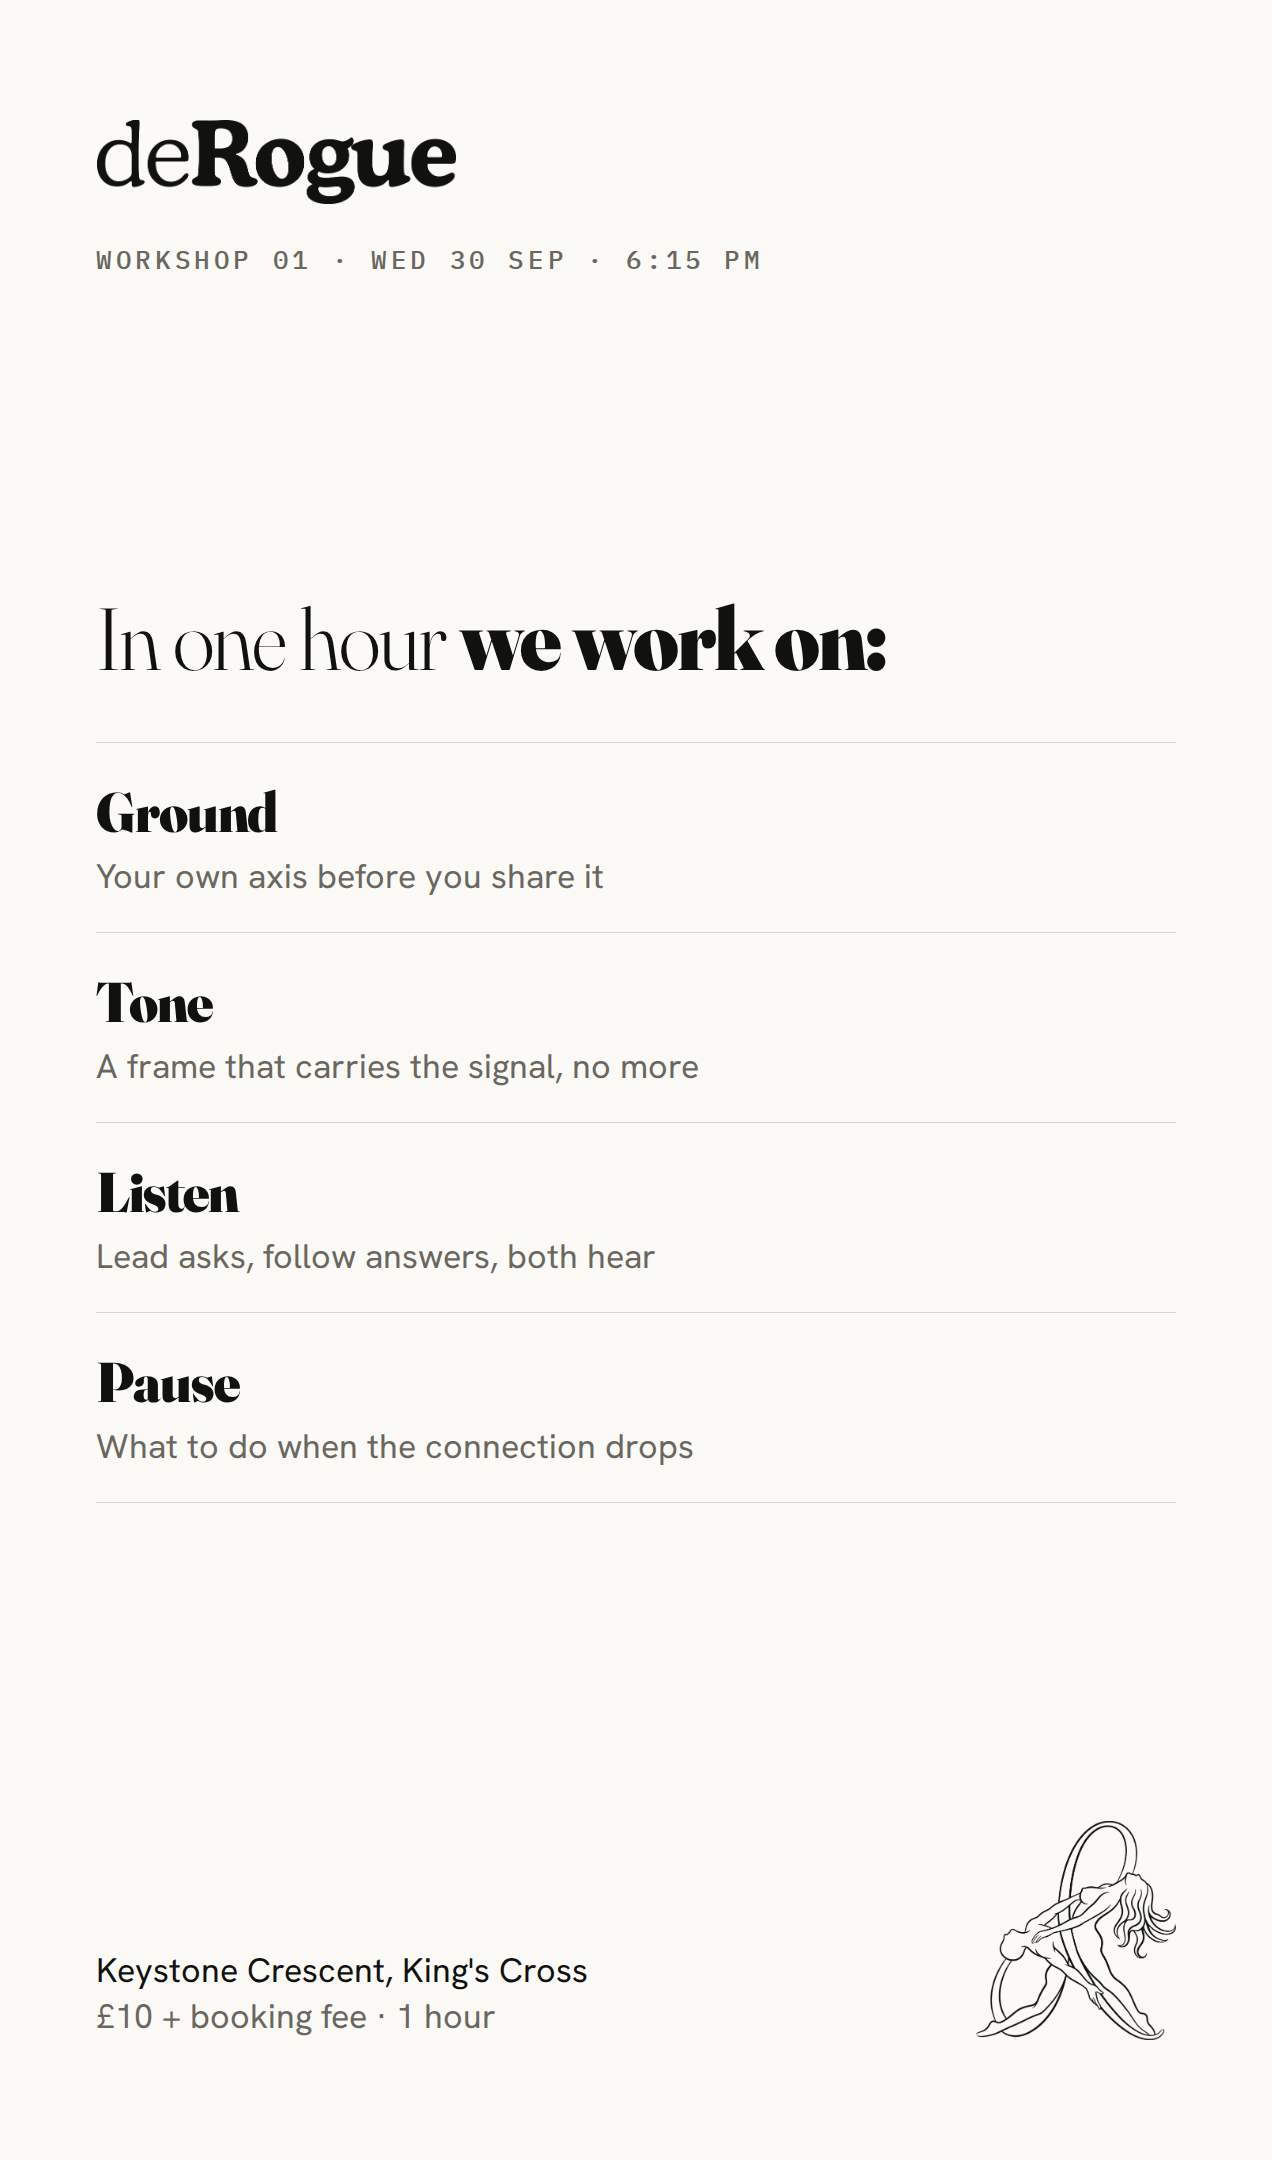
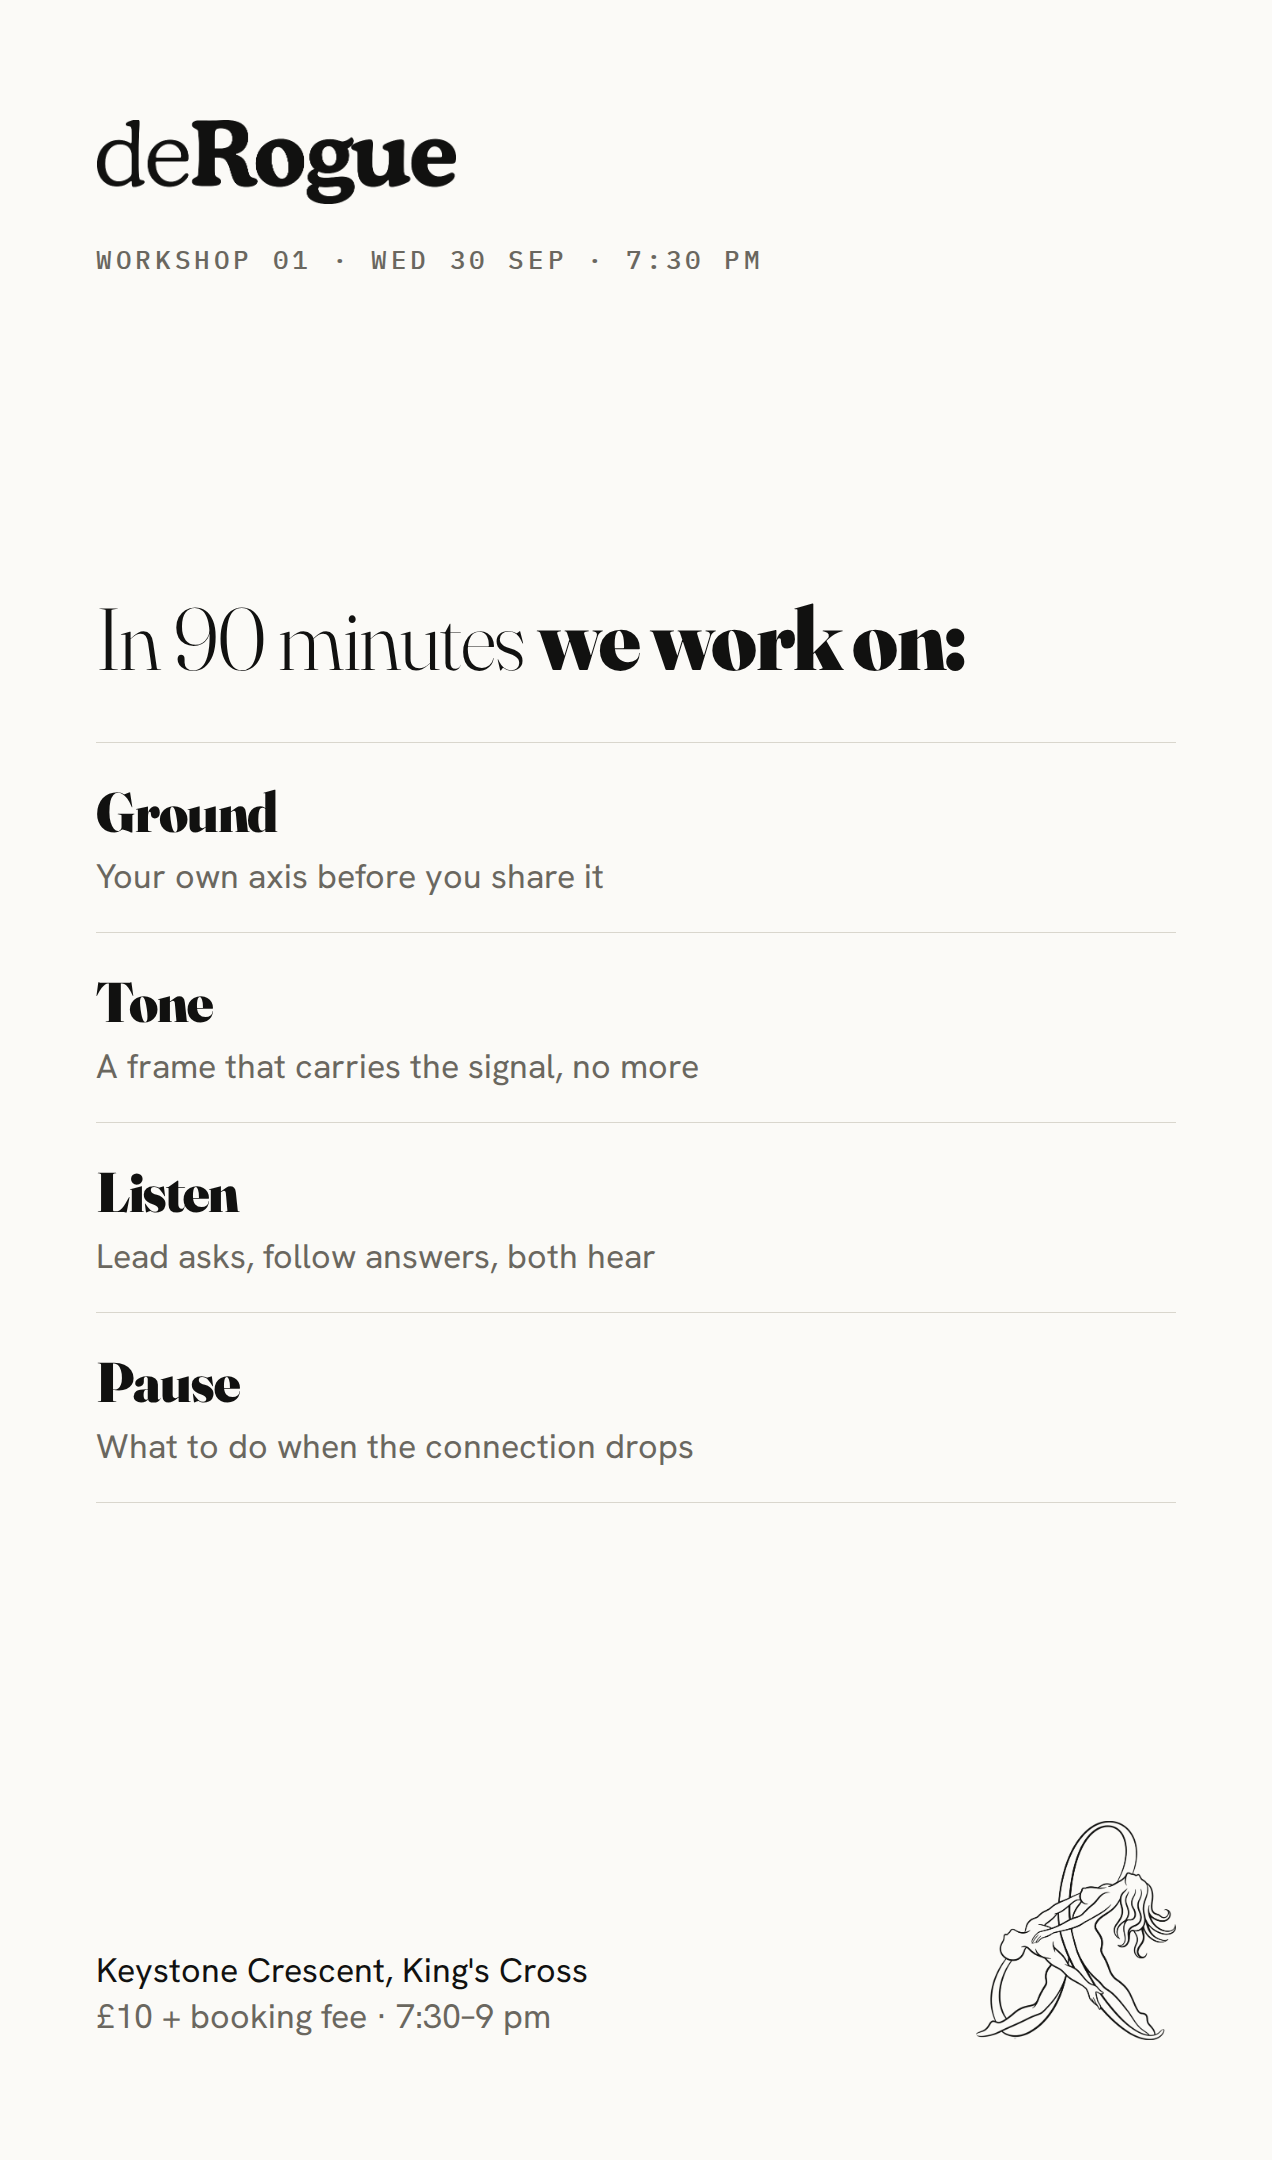
deRogue Workshop 01: set time to 7:30–9 pm
Claude-Session: https://claude.ai/code/session_015H6vXBxX7D9SPMbuhiTbZj

Changed region(s): [[0.1226, 0.2792, 0.7665, 0.3102], [0.3373, 0.9306, 0.4292, 0.9616], [0.5212, 0.0931, 0.5519, 0.1241]]

diff --git a/derogue/social/templates.html b/derogue/social/templates.html
@@ -78,7 +78,7 @@
     <p class="disp" style="font-size:78px; line-height:1; font-weight:400">The Listening <b>Frame</b></p>
   </div>
   <dl class="facts" style="margin:0">
-    <dt>When</dt><dd>Wednesday 30 September<small>6:15–7:15 pm · 1 hour</small></dd>
+    <dt>When</dt><dd>Wednesday 30 September<small>7:30–9 pm · 90 minutes</small></dd>
     <dt>Where</dt><dd>Keystone Crescent<small>King's Cross, N1 9DX</small></dd>
     <dt>Price</dt><dd>£10 + booking fee<small>All levels · any dance style · no partner needed</small></dd>
   </dl>
@@ -98,7 +98,7 @@
     <div class="mark" style="width:380px"></div>
   </div>
   <div style="display:flex; justify-content:space-between; font:500 30px/1 'IBM Plex Mono',monospace; letter-spacing:.06em; border-top:1px solid var(--rule); padding-top:30px">
-    <span>6:15 pm</span><span>1 hour</span><span>£10 + fee</span><span>King's Cross</span>
+    <span>7:30–9 pm</span><span>£10 + fee</span><span>King's Cross</span>
   </div>
 </div>
 
@@ -111,10 +111,10 @@
   <div style="display:grid; gap:40px">
     <div class="num" style="font-size:420px">01</div>
     <p class="disp" style="font-size:110px; line-height:.98; font-weight:300">The Listening <b>Frame.</b></p>
-    <p style="font-size:38px; line-height:1.4; color:var(--soft); margin:0; max-width:24ch">One hour on the thing every partner dance depends on. Bachata is the lab. Your dance is the point.</p>
+    <p style="font-size:38px; line-height:1.4; color:var(--soft); margin:0; max-width:24ch">Ninety minutes on the thing every partner dance depends on. Bachata is the lab. Your dance is the point.</p>
   </div>
   <dl class="facts" style="margin:0; font-size:40px; grid-template-columns: 200px 1fr">
-    <dt>When</dt><dd>Wednesday 30 September<small>6:15–7:15 pm</small></dd>
+    <dt>When</dt><dd>Wednesday 30 September<small>7:30–9 pm</small></dd>
     <dt>Where</dt><dd>Keystone Crescent<small>King's Cross, London N1 9DX</small></dd>
     <dt>Price</dt><dd>£10 + booking fee<small>No partner needed</small></dd>
   </dl>
@@ -124,10 +124,10 @@
 <div class="card st ink" id="derogue-workshop-01-story-ink" style="justify-content:space-between">
   <div style="display:grid; gap:40px; justify-items:start">
     <div class="word" style="width:360px"></div>
-    <p class="eyebrow" style="margin:0">Workshop 01 · Wed 30 Sep · 6:15 pm</p>
+    <p class="eyebrow" style="margin:0">Workshop 01 · Wed 30 Sep · 7:30 pm</p>
   </div>
   <div style="display:grid; gap:0">
-    <p class="disp" style="font-size:88px; line-height:1; font-weight:300; margin-bottom:60px">In one hour <b>we work on:</b></p>
+    <p class="disp" style="font-size:88px; line-height:1; font-weight:300; margin-bottom:60px">In 90 minutes <b>we work on:</b></p>
     <div class="rule"></div>
     <p class="disp" style="font-size:56px; font-weight:900; margin:34px 0 8px">Ground</p><p style="font-size:34px; color:var(--soft); margin:0 0 34px">Your own axis before you share it</p>
     <div class="rule"></div>
@@ -139,7 +139,7 @@
     <div class="rule"></div>
   </div>
   <div style="display:flex; justify-content:space-between; align-items:end">
-    <p style="font-size:34px; line-height:1.35; margin:0">Keystone Crescent, King's Cross<br><span style="color:var(--soft)">£10 + booking fee · 1 hour</span></p>
+    <p style="font-size:34px; line-height:1.35; margin:0">Keystone Crescent, King's Cross<br><span style="color:var(--soft)">£10 + booking fee · 7:30–9 pm</span></p>
     <div class="mark" style="width:200px"></div>
   </div>
 </div>

diff --git a/derogue/index.html b/derogue/index.html
@@ -6,7 +6,7 @@
 <title>deRogue</title>
 <meta name="description" content="deRogue — partner connection workshops in London. Lead, follow and connection for any partner dance. First workshop: Wednesday 30 September, Keystone Crescent, King's Cross.">
 <meta property="og:title" content="deRogue — the art of connection">
-<meta property="og:description" content="Lead–follow connection workshops for any partner dance. First workshop Wed 30 Sep · Keystone Crescent, King's Cross · 1 hour · £10.">
+<meta property="og:description" content="Lead–follow connection workshops for any partner dance. First workshop Wed 30 Sep · Keystone Crescent, King's Cross · 7:30–9 pm · £10.">
 <meta property="og:image" content="https://roguebachata.com/derogue/social/derogue-workshop-01-square-ink.png">
 <meta name="twitter:card" content="summary_large_image">
 <link rel="preconnect" href="https://fonts.googleapis.com">
@@ -254,7 +254,7 @@
       <p class="eyebrow">Now booking</p>
       <div>
         <h2 id="ws-h">Our <b>first</b> workshop.</h2>
-        <p>One focused hour on the single thing every partner dance depends on. Same room as Rogue Bachata Wednesdays, so you can stay for the evening after.</p>
+        <p>Ninety focused minutes on the single thing every partner dance depends on. Same room as Rogue Bachata Wednesdays.</p>
       </div>
     </div>
 
@@ -274,7 +274,7 @@
       <div class="stub">
         <dl>
           <div class="row"><dt>Date</dt><dd><time datetime="2026-09-30">Wednesday 30 September 2026</time></dd></div>
-          <div class="row"><dt>Time</dt><dd><time datetime="2026-09-30T18:15">6:15</time>–<time datetime="2026-09-30T19:15">7:15 pm</time><small>60 minutes</small></dd></div>
+          <div class="row"><dt>Time</dt><dd><time datetime="2026-09-30T19:30">7:30</time>–<time datetime="2026-09-30T21:00">9:00 pm</time><small>90 minutes</small></dd></div>
           <div class="row"><dt>Venue</dt><dd>Keystone Crescent<small>King's Cross, London N1 9DX</small></dd></div>
           <div class="row"><dt>Price</dt><dd>£10 + booking fee</dd></div>
           <div class="row"><dt>Who</dt><dd>All levels, any dance style<small>No partner needed. We rotate.</small></dd></div>
